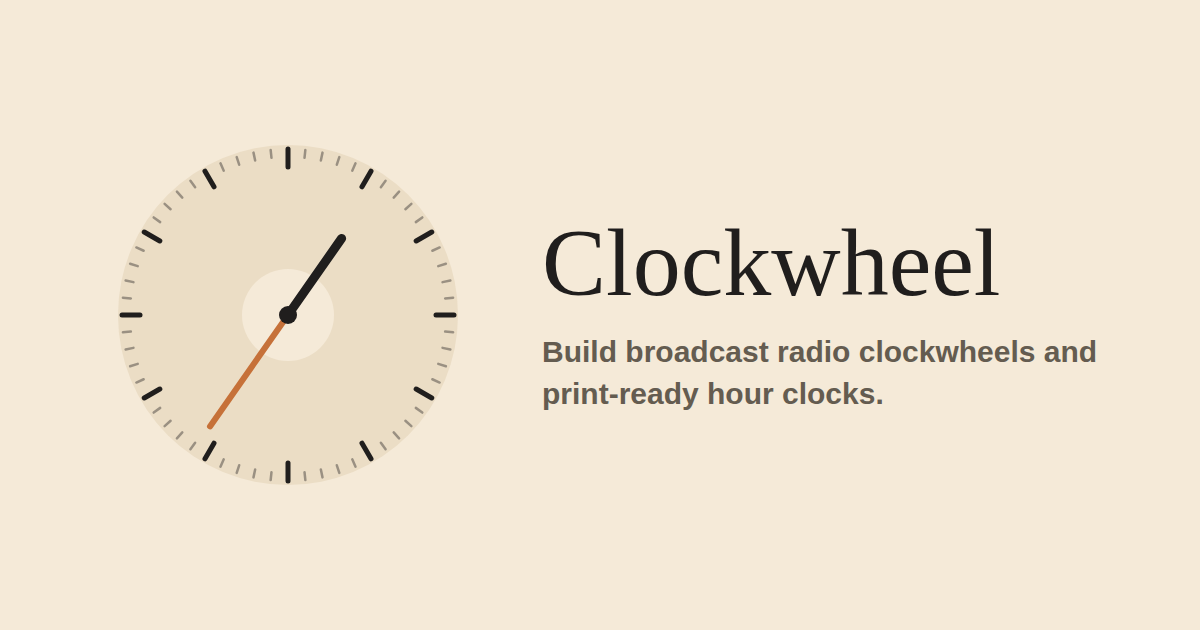
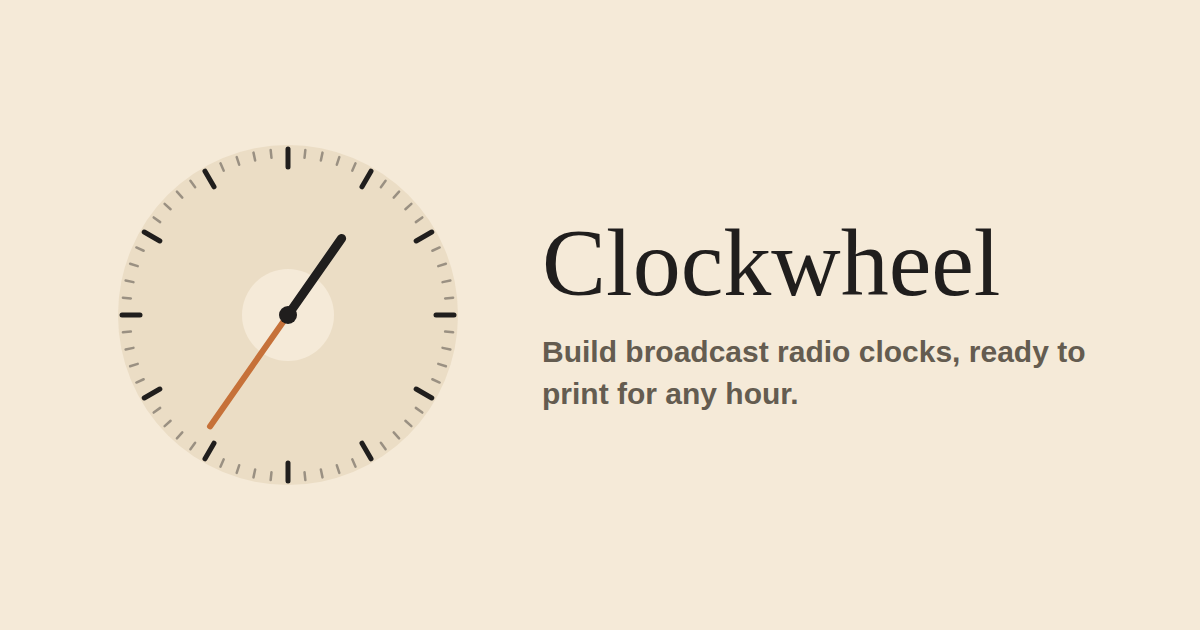
Say "clocks" not "clockwheels" in Clockwheel's own description
Avoids echoing the product's name back inside its own tagline.
Updated the meta description/og/twitter tags and regenerated the
preview image, since its tagline is baked in as rendered text.

Claude-Session: https://claude.ai/code/session_01Hv3vzi3N2KXvuJUw6Q1r4e

Changed region(s): [[0.4933, 0.6032, 0.74, 0.6635], [0.7708, 0.5429, 0.925, 0.573]]

diff --git a/index.html b/index.html
@@ -5,7 +5,7 @@
     <link rel="icon" type="image/svg+xml" href="/favicon.svg" />
     <meta name="viewport" content="width=device-width, initial-scale=1.0" />
     <title>Clockwheel</title>
-    <meta name="description" content="Build broadcast radio clockwheels and print-ready hour clocks." />
+    <meta name="description" content="Build broadcast radio clocks, ready to print for any hour." />
     <!-- Link-preview ("unfurl") tags for chat apps/social — these are read from
          this static HTML by crawlers that never run the app's JS, so they can't
          just follow lib/hostMode.ts's runtime host check the way the UI does.
@@ -14,12 +14,12 @@
          both in sync for anything other than these tags and <title>. -->
     <meta property="og:type" content="website" />
     <meta property="og:title" content="Clockwheel" />
-    <meta property="og:description" content="Build broadcast radio clockwheels and print-ready hour clocks." />
+    <meta property="og:description" content="Build broadcast radio clocks, ready to print for any hour." />
     <meta property="og:image" content="https://clockwheel.baish.net/og-clockwheel.png" />
     <meta property="og:url" content="https://clockwheel.baish.net/" />
     <meta name="twitter:card" content="summary_large_image" />
     <meta name="twitter:title" content="Clockwheel" />
-    <meta name="twitter:description" content="Build broadcast radio clockwheels and print-ready hour clocks." />
+    <meta name="twitter:description" content="Build broadcast radio clocks, ready to print for any hour." />
     <meta name="twitter:image" content="https://clockwheel.baish.net/og-clockwheel.png" />
   </head>
   <body>

diff --git a/CLAUDE.md b/CLAUDE.md
@@ -871,6 +871,35 @@ notably iMessage, cache a link's preview the first time it's sent to a
 given conversation, so a stale "Clockwheel" card seen before this shipped
 may need a fresh conversation/link to pick up the fix, not just a resend).
 
+## Follow-up: Clockwheel's link-preview wording (2026-09-29)
+
+Small wording tweak: the Clockwheel description said "clockwheels" — user
+asked for "clocks" instead, to stop echoing the product's own name back
+inside its own description. Changed in three places in `index.html`
+(`meta[name=description]`, `og:description`, `twitter:description`) from
+"Build broadcast radio clockwheels and print-ready hour clocks." to "Build
+broadcast radio clocks, ready to print for any hour." — and regenerated
+`public/og-clockwheel.png`, since the tagline is baked into that image as
+rendered text, not read from the meta tag. Backtimer's copy was
+user-confirmed already good and untouched.
+
+Also worth logging: right after shipping the per-domain preview fix, the
+user reported still seeing the old "Clockwheel" card when sharing the
+`backtimer.baish.net` link. Couldn't verify server-side myself — this
+session's sandbox has no outbound network access at all (confirmed by
+trying to fetch both the live site and Vercel's own docs, both blocked at
+the egress proxy, not application-level) — so there's no way to `curl` the
+live HTML or otherwise confirm from here whether `vercel.json`'s rewrite is
+actually matching in production. Best guess, not confirmed: this is the
+link-preview caching behaviour already flagged when this was first built —
+iMessage and similar caches a URL's preview card server-side (Apple's
+servers, not the device) the first time it's shared, independent of
+whatever the site serves afterwards, so a `backtimer.baish.net` link sent
+before this fix shipped could keep showing the stale card indefinitely
+regardless of resends. Asked the user to test with the link in a context
+it's never been sent in before, to isolate "still actually broken" from
+"just an old cached card" — outcome not yet known as of this entry.
+
 ## Other known backlog (not urgent, not asked for — just context)
 
 - Per-anchor over/under (the fuller "over by 2:30 before the 07:29 anchor"
